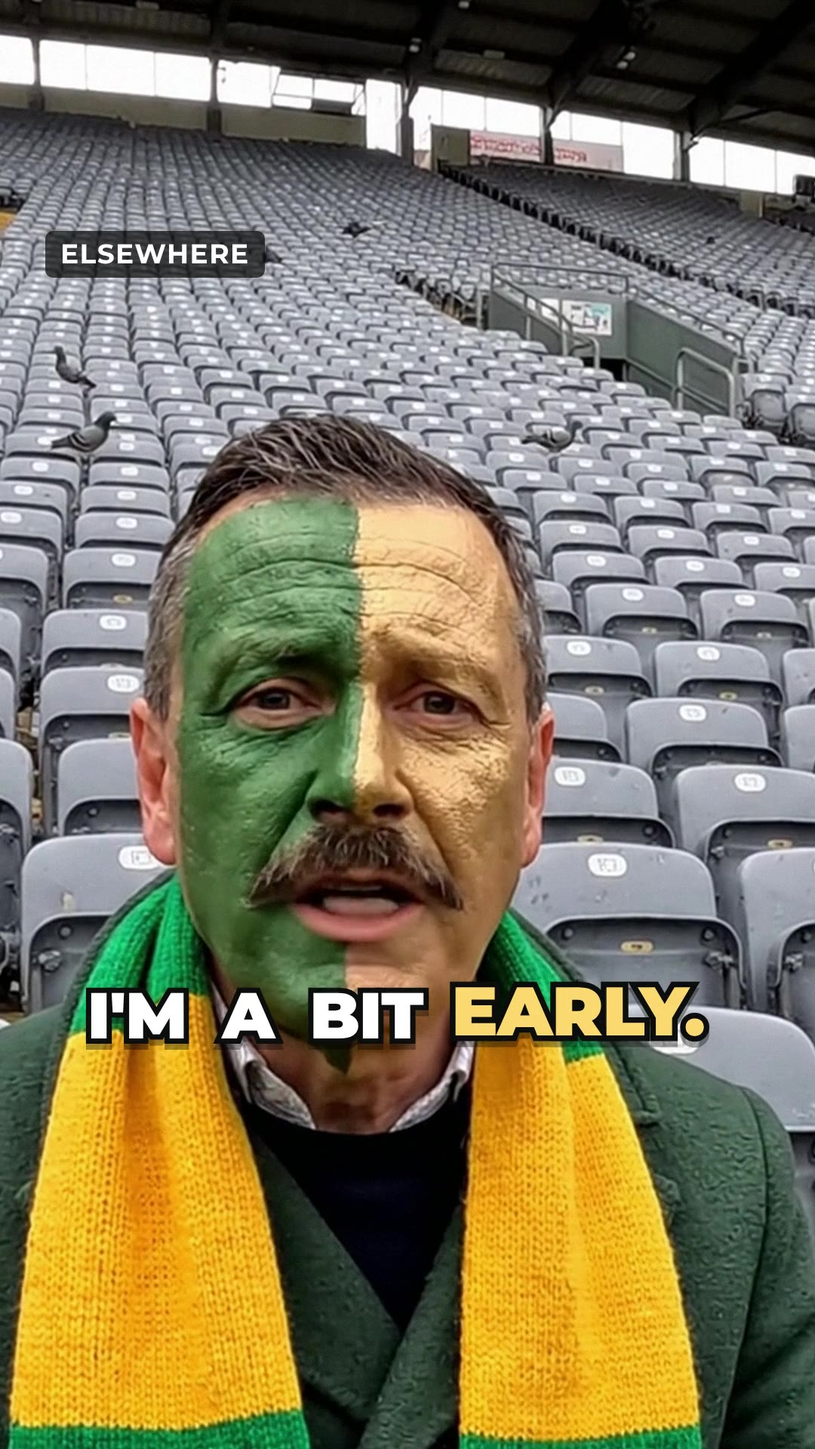
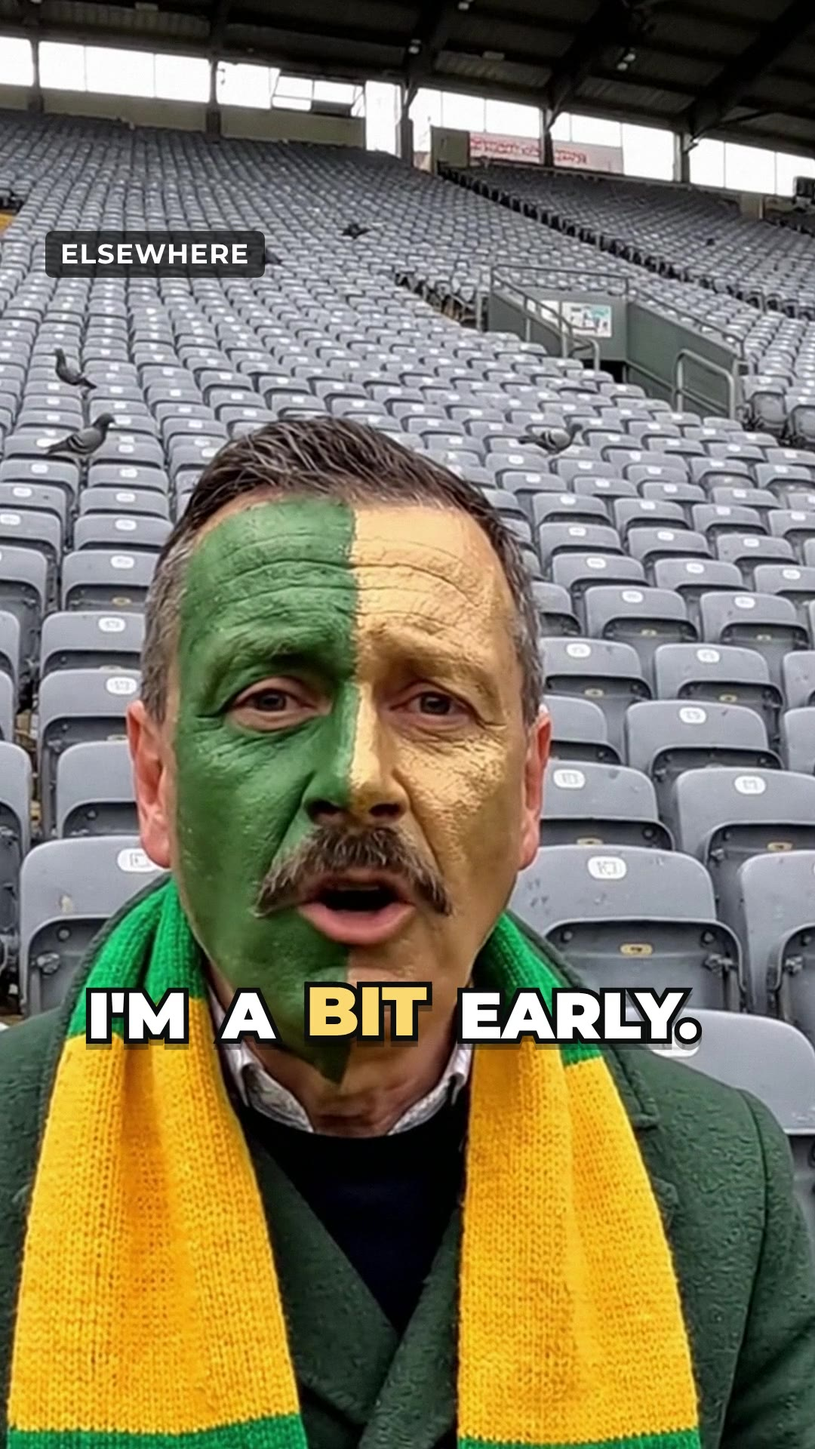
Gallery and posters for the final episodes
Claude-Session: https://claude.ai/code/session_016pKdYbt9Bqy4vSUprYB1BZ

diff --git a/venuvoy-ads/index.html b/venuvoy-ads/index.html
@@ -109,12 +109,12 @@ button.cp:focus-visible { outline: 3px solid var(--accent); outline-offset: 2px;
 <h1>ערכת הקמפיין של <span class="g ltr">Venuvoy</span></h1><p class="lede">חדש: <span class="ltr">To Be Confirmed</span>, סדרה קומית באנגלית לבניית קהילה (6 פרקים), בראש העמוד. אחריה: קמפיין בינלאומי של ארבעה סרטונים באנגלית ובעברית, סרטון ראשי בעברית ובאנגלית (35 שניות, וגרסה של 15 שניות לכל אחד), ושש מודעות וידאו בעברית (9:16 ו־4:5, 8 שניות). לכל הסרטונים מוזיקה מקורית. כל מודעה קיימת גם כתמונה בארבעה גדלים. כל משחק, מחיר ושעה לקוחים מהמוצר עצמו: תוכניות שהמנוע ייצר, שורות מהקטלוג וספר המחירים. מתחת לכל מודעה יש את הטקסטים ל־Meta, מוכנים להעתקה.</p>
 <ul class="specs"><li>פיד <span>1080×1350</span></li><li>סטורי / ריל <span>1080×1920</span></li><li>ריבוע <span>1080×1080</span></li><li>רוחבי <span>1200×628</span></li><li>וידאו 9:16 <span>1080×1920</span></li><li>וידאו 4:5 <span>1080×1350</span></li></ul>
 <section class="entry" aria-labelledby="h-series"><div class="entry-h"><span class="no">●</span><h2 id="h-series">הסדרה · <span class="ltr">To Be Confirmed</span></h2><span class="onimg">סדרה קומית לבניית קהילה · באנגלית</span></div><p class="angle">זו לא פרסומת. סדרה דוקומנטרית־קומית על קבוצת צ׳אט של אוהדים שמתכננים נסיעה אחת למשחק בחו״ל, בהמשך ל״דני יצא מהקבוצה״ (שהופך ל״עונה שעברה״). אין בה מסך של האפליקציה, מחיר, כפתור או קישור. המותג רק חותם בסוף כל פרק: ״<bdi dir="ltr">Next episode: Thursday. Confirmed.</bdi>״ המטרה: שאוהדים שנוסעים למשחקים יעקבו, ישלחו לקבוצה שלהם ויחכו לפרק הבא.</p><dl class="copy"><div><dt>ביו לפרופיל<small><span class="ltr">Bio</span></small></dt><dd id="series-bio-0" dir="ltr" lang="en">A study of people trying to get to a match. Fiction. New episode every Thursday.</dd><span class="act"><button type="button" class="cp" data-for="series-bio-0">העתקה</button></span></div></dl><p class="sub-h">תוכנית הפרסום</p><ol class="scenes"><li>לפני היום הראשון: שם הפרופיל <bdi dir="ltr">To Be Confirmed.</bdi> בביו: המשפט שלמעלה, ואחריו משפט אחד פשוט שאומר מה זה <bdi dir="ltr">Venuvoy</bdi> והקישור. זה המקום היחיד שבו המוצר מופיע.</li><li>בכל פוסט ובכל פלטפורמה להדליק את התווית שמציינת שהתוכן נוצר בבינה מלאכותית.</li><li>שעה קבועה: 12:00 בשעון בריטניה (14:00 בישראל בחורף). בשעה הזאת זה יום חמישי בכל העולם, מלוס אנג׳לס ועד סידני, והשורה ״<bdi dir="ltr">Thursday. Confirmed.</bdi>״ נכונה לכולם.</li><li>יום 1: פרקים 1, 2 ו־3 אחד אחרי השני באותה שעה, ושלושתם נעוצים בראש הפרופיל. כך מי שנכנס רואה מיד סדרה ממוספרת.</li><li>להעלות לכל פלטפורמה את הקובץ המקורי (9:16), ולא קובץ שהורד מפלטפורמה אחרת עם סימן מים. עד שלושה תגים כלליים: <bdi dir="ltr">away days, groundhopping, football travel.</bdi> בלי שם של מועדון, ליגה או תחרות.</li><li>תגובות: עונים בקול של הקריין (״<bdi dir="ltr">Noted.</bdi>״) או לא עונים. לא מבקשים לייקים, תיוגים או מעקב. על המוצר עונים רק אם מישהו שואל מה זה <bdi dir="ltr">Venuvoy</bdi>, במשפט אחד.</li><li>ההבטחה ״<bdi dir="ltr">Next episode: Thursday. Confirmed.</bdi>״ מחייבת פרק חדש בכל יום חמישי. הפרק של יום 15 (החתונה של הבת של ויק) עוד לא צולם: מחליטים עליו ביום 9, לפי הנתונים של השבוע הראשון.</li><li>מה למדוד אחרי שבוע: כמה שלחו את הסרטון ביחס לחשיפה, כמה דילגו בשלוש השניות הראשונות, כמה צפו עד הסוף, וכמה התחילו לעקוב.</li></ol></section>
-<section class="entry" aria-labelledby="h-tbc-e1"><div class="entry-h"><span class="no">1</span><h2 id="h-tbc-e1"><span class="ltr">Episode 1: Should Be Fine</span></h2><span class="onimg">יום 1 · חמישי · 36 שניות</span></div><div class="reel"><div class="rv"><figure><video src="ads/16-tbc/venuvoy-tbc-e1-en_9x16_1080x1920.mp4" poster="ads/16-tbc/poster-tbc-e1.jpg" controls playsinline loop preload="metadata"></video><figcaption>English · <span class="ltr">9:16</span></figcaption></figure></div><div><dl class="copy"><div><dt>כיתוב לפוסט<small><span class="ltr">Caption</span></small></dt><dd id="tbc-e1-0" dir="ltr" lang="en">Episode 1. The dates are out. There is a spreadsheet.</dd><span class="act"><button type="button" class="cp" data-for="tbc-e1-0">העתקה</button></span></div><div><dt>תגובה נעוצה<small><span class="ltr">Pinned comment</span></small></dt><dd id="tbc-e1-1" dir="ltr" lang="en">The poll is still open. Options other than yes and no are being recorded.</dd><span class="act"><button type="button" class="cp" data-for="tbc-e1-1">העתקה</button></span></div></dl><p class="basis">קיים גם ב־4:5 (<span class="ltr">1080×1350</span>) לפיד, באותה תיקייה. בלי מוצר, בלי מחיר ובלי כפתור: רק החתימה בסוף.</p></div></div></section>
-<section class="entry" aria-labelledby="h-tbc-e2"><div class="entry-h"><span class="no">2</span><h2 id="h-tbc-e2"><span class="ltr">Episode 2: So You Guess</span></h2><span class="onimg">יום 1 · חמישי, מיד אחרי פרק 1 · 30 שניות</span></div><div class="reel"><div class="rv"><figure><video src="ads/16-tbc/venuvoy-tbc-e2-en_9x16_1080x1920.mp4" poster="ads/16-tbc/poster-tbc-e2.jpg" controls playsinline loop preload="metadata"></video><figcaption>English · <span class="ltr">9:16</span></figcaption></figure></div><div><dl class="copy"><div><dt>כיתוב לפוסט<small><span class="ltr">Caption</span></small></dt><dd id="tbc-e2-0" dir="ltr" lang="en">Episode 2. Everything gets booked.</dd><span class="act"><button type="button" class="cp" data-for="tbc-e2-0">העתקה</button></span></div></dl><p class="basis">קיים גם ב־4:5 (<span class="ltr">1080×1350</span>) לפיד, באותה תיקייה. בלי מוצר, בלי מחיר ובלי כפתור: רק החתימה בסוף.</p></div></div></section>
-<section class="entry" aria-labelledby="h-tbc-e3"><div class="entry-h"><span class="no">3</span><h2 id="h-tbc-e3"><span class="ltr">Episode 3: A History of Buying Tickets</span></h2><span class="onimg">יום 1 · חמישי, מיד אחרי פרק 2 · 31 שניות</span></div><div class="reel"><div class="rv"><figure><video src="ads/16-tbc/venuvoy-tbc-e3-en_9x16_1080x1920.mp4" poster="ads/16-tbc/poster-tbc-e3.jpg" controls playsinline loop preload="metadata"></video><figcaption>English · <span class="ltr">9:16</span></figcaption></figure></div><div><dl class="copy"><div><dt>כיתוב לפוסט<small><span class="ltr">Caption</span></small></dt><dd id="tbc-e3-0" dir="ltr" lang="en">Episode 3. One ticket short.</dd><span class="act"><button type="button" class="cp" data-for="tbc-e3-0">העתקה</button></span></div></dl><p class="basis">קיים גם ב־4:5 (<span class="ltr">1080×1350</span>) לפיד, באותה תיקייה. בלי מוצר, בלי מחיר ובלי כפתור: רק החתימה בסוף.</p></div></div></section>
-<section class="entry" aria-labelledby="h-tbc-e5"><div class="entry-h"><span class="no">4</span><h2 id="h-tbc-e5"><span class="ltr">Elsewhere: A Bit Early</span></h2><span class="onimg">יום 6 · שלישי · 24 שניות</span></div><div class="reel"><div class="rv"><figure><video src="ads/16-tbc/venuvoy-tbc-e5-en_9x16_1080x1920.mp4" poster="ads/16-tbc/poster-tbc-e5.jpg" controls playsinline loop preload="metadata"></video><figcaption>English · <span class="ltr">9:16</span></figcaption></figure></div><div><dl class="copy"><div><dt>כיתוב לפוסט<small><span class="ltr">Caption</span></small></dt><dd id="tbc-e5-0" dir="ltr" lang="en">Elsewhere. A man has reached his seat.</dd><span class="act"><button type="button" class="cp" data-for="tbc-e5-0">העתקה</button></span></div></dl><p class="basis">קיים גם ב־4:5 (<span class="ltr">1080×1350</span>) לפיד, באותה תיקייה. בלי מוצר, בלי מחיר ובלי כפתור: רק החתימה בסוף.</p></div></div></section>
+<section class="entry" aria-labelledby="h-tbc-e1"><div class="entry-h"><span class="no">1</span><h2 id="h-tbc-e1"><span class="ltr">Episode 1: Should Be Fine</span></h2><span class="onimg">יום 1 · חמישי · 37 שניות</span></div><div class="reel"><div class="rv"><figure><video src="ads/16-tbc/venuvoy-tbc-e1-en_9x16_1080x1920.mp4" poster="ads/16-tbc/poster-tbc-e1.jpg" controls playsinline loop preload="metadata"></video><figcaption>English · <span class="ltr">9:16</span></figcaption></figure></div><div><dl class="copy"><div><dt>כיתוב לפוסט<small><span class="ltr">Caption</span></small></dt><dd id="tbc-e1-0" dir="ltr" lang="en">Episode 1. The dates are out. There is a spreadsheet.</dd><span class="act"><button type="button" class="cp" data-for="tbc-e1-0">העתקה</button></span></div><div><dt>תגובה נעוצה<small><span class="ltr">Pinned comment</span></small></dt><dd id="tbc-e1-1" dir="ltr" lang="en">The poll is still open. Options other than yes and no are being recorded.</dd><span class="act"><button type="button" class="cp" data-for="tbc-e1-1">העתקה</button></span></div></dl><p class="basis">קיים גם ב־4:5 (<span class="ltr">1080×1350</span>) לפיד, באותה תיקייה. בלי מוצר, בלי מחיר ובלי כפתור: רק החתימה בסוף.</p></div></div></section>
+<section class="entry" aria-labelledby="h-tbc-e2"><div class="entry-h"><span class="no">2</span><h2 id="h-tbc-e2"><span class="ltr">Episode 2: So You Guess</span></h2><span class="onimg">יום 1 · חמישי, מיד אחרי פרק 1 · 32 שניות</span></div><div class="reel"><div class="rv"><figure><video src="ads/16-tbc/venuvoy-tbc-e2-en_9x16_1080x1920.mp4" poster="ads/16-tbc/poster-tbc-e2.jpg" controls playsinline loop preload="metadata"></video><figcaption>English · <span class="ltr">9:16</span></figcaption></figure></div><div><dl class="copy"><div><dt>כיתוב לפוסט<small><span class="ltr">Caption</span></small></dt><dd id="tbc-e2-0" dir="ltr" lang="en">Episode 2. Everything gets booked.</dd><span class="act"><button type="button" class="cp" data-for="tbc-e2-0">העתקה</button></span></div></dl><p class="basis">קיים גם ב־4:5 (<span class="ltr">1080×1350</span>) לפיד, באותה תיקייה. בלי מוצר, בלי מחיר ובלי כפתור: רק החתימה בסוף.</p></div></div></section>
+<section class="entry" aria-labelledby="h-tbc-e3"><div class="entry-h"><span class="no">3</span><h2 id="h-tbc-e3"><span class="ltr">Episode 3: A History of Buying Tickets</span></h2><span class="onimg">יום 1 · חמישי, מיד אחרי פרק 2 · 32 שניות</span></div><div class="reel"><div class="rv"><figure><video src="ads/16-tbc/venuvoy-tbc-e3-en_9x16_1080x1920.mp4" poster="ads/16-tbc/poster-tbc-e3.jpg" controls playsinline loop preload="metadata"></video><figcaption>English · <span class="ltr">9:16</span></figcaption></figure></div><div><dl class="copy"><div><dt>כיתוב לפוסט<small><span class="ltr">Caption</span></small></dt><dd id="tbc-e3-0" dir="ltr" lang="en">Episode 3. One ticket short.</dd><span class="act"><button type="button" class="cp" data-for="tbc-e3-0">העתקה</button></span></div></dl><p class="basis">קיים גם ב־4:5 (<span class="ltr">1080×1350</span>) לפיד, באותה תיקייה. בלי מוצר, בלי מחיר ובלי כפתור: רק החתימה בסוף.</p></div></div></section>
+<section class="entry" aria-labelledby="h-tbc-e5"><div class="entry-h"><span class="no">4</span><h2 id="h-tbc-e5"><span class="ltr">Elsewhere: A Bit Early</span></h2><span class="onimg">יום 6 · שלישי · 25 שניות</span></div><div class="reel"><div class="rv"><figure><video src="ads/16-tbc/venuvoy-tbc-e5-en_9x16_1080x1920.mp4" poster="ads/16-tbc/poster-tbc-e5.jpg" controls playsinline loop preload="metadata"></video><figcaption>English · <span class="ltr">9:16</span></figcaption></figure></div><div><dl class="copy"><div><dt>כיתוב לפוסט<small><span class="ltr">Caption</span></small></dt><dd id="tbc-e5-0" dir="ltr" lang="en">Elsewhere. A man has reached his seat.</dd><span class="act"><button type="button" class="cp" data-for="tbc-e5-0">העתקה</button></span></div></dl><p class="basis">קיים גם ב־4:5 (<span class="ltr">1080×1350</span>) לפיד, באותה תיקייה. בלי מוצר, בלי מחיר ובלי כפתור: רק החתימה בסוף.</p></div></div></section>
 <section class="entry" aria-labelledby="h-tbc-e4"><div class="entry-h"><span class="no">5</span><h2 id="h-tbc-e4"><span class="ltr">Episode 4: It&#x27;s Been Moved</span></h2><span class="onimg">יום 8 · חמישי · 33 שניות</span></div><div class="reel"><div class="rv"><figure><video src="ads/16-tbc/venuvoy-tbc-e4-en_9x16_1080x1920.mp4" poster="ads/16-tbc/poster-tbc-e4.jpg" controls playsinline loop preload="metadata"></video><figcaption>English · <span class="ltr">9:16</span></figcaption></figure></div><div><dl class="copy"><div><dt>כיתוב לפוסט<small><span class="ltr">Caption</span></small></dt><dd id="tbc-e4-0" dir="ltr" lang="en">Episode 4. The match has moved to Monday.</dd><span class="act"><button type="button" class="cp" data-for="tbc-e4-0">העתקה</button></span></div><div><dt>תגובה נעוצה<small><span class="ltr">Pinned comment</span></small></dt><dd id="tbc-e4-1" dir="ltr" lang="en">The study keeps a record of matches that moved after the flights were booked. The record needs three things: the day you booked for, the day it moved to, the reason given. No club names.</dd><span class="act"><button type="button" class="cp" data-for="tbc-e4-1">העתקה</button></span></div></dl><p class="basis">קיים גם ב־4:5 (<span class="ltr">1080×1350</span>) לפיד, באותה תיקייה. בלי מוצר, בלי מחיר ובלי כפתור: רק החתימה בסוף.</p></div></div></section>
-<section class="entry" aria-labelledby="h-tbc-e6"><div class="entry-h"><span class="no">6</span><h2 id="h-tbc-e6"><span class="ltr">In the Chat: It&#x27;s Pinned</span></h2><span class="onimg">יום 13 · שלישי · 21 שניות</span></div><div class="reel"><div class="rv"><figure><video src="ads/16-tbc/venuvoy-tbc-e6-en_9x16_1080x1920.mp4" poster="ads/16-tbc/poster-tbc-e6.jpg" controls playsinline loop preload="metadata"></video><figcaption>English · <span class="ltr">9:16</span></figcaption></figure></div><div><dl class="copy"><div><dt>כיתוב לפוסט<small><span class="ltr">Caption</span></small></dt><dd id="tbc-e6-0" dir="ltr" lang="en">In the chat. Somebody has asked what time kick-off is.</dd><span class="act"><button type="button" class="cp" data-for="tbc-e6-0">העתקה</button></span></div></dl><p class="basis">קיים גם ב־4:5 (<span class="ltr">1080×1350</span>) לפיד, באותה תיקייה. בלי מוצר, בלי מחיר ובלי כפתור: רק החתימה בסוף.</p></div></div></section>
+<section class="entry" aria-labelledby="h-tbc-e6"><div class="entry-h"><span class="no">6</span><h2 id="h-tbc-e6"><span class="ltr">In the Chat: It&#x27;s Pinned</span></h2><span class="onimg">יום 13 · שלישי · 22 שניות</span></div><div class="reel"><div class="rv"><figure><video src="ads/16-tbc/venuvoy-tbc-e6-en_9x16_1080x1920.mp4" poster="ads/16-tbc/poster-tbc-e6.jpg" controls playsinline loop preload="metadata"></video><figcaption>English · <span class="ltr">9:16</span></figcaption></figure></div><div><dl class="copy"><div><dt>כיתוב לפוסט<small><span class="ltr">Caption</span></small></dt><dd id="tbc-e6-0" dir="ltr" lang="en">In the chat. Somebody has asked what time kick-off is.</dd><span class="act"><button type="button" class="cp" data-for="tbc-e6-0">העתקה</button></span></div></dl><p class="basis">קיים גם ב־4:5 (<span class="ltr">1080×1350</span>) לפיד, באותה תיקייה. בלי מוצר, בלי מחיר ובלי כפתור: רק החתימה בסוף.</p></div></div></section>
 <section class="entry" aria-labelledby="h-camp"><div class="entry-h"><span class="no">★</span><h2 id="h-camp">קמפיין בינלאומי · <span class="ltr">The World Is Your Stadium</span></h2><span class="onimg">העולם הוא האצטדיון שלכם</span></div><p class="angle">חמישה סרטונים, כל אחד באנגלית ובעברית, ב־9:16 וב־4:5: סרט קומדיה עם דמויות שצולם בבינה מלאכותית, סרט ראשי עם סטדיון וגלובוס בתלת־ממד, קומדיה, מונטאז׳ ענפים ובאמפר של 6 שניות. לכל אחד מוזיקה ואפקטים מקוריים, וכולם נגמרים באותה חתימה צלילית.</p></section>
 <section class="entry" aria-labelledby="h-danny"><div class="entry-h"><span class="no">15</span><h2 id="h-danny">סרט עם קריין · דני יצא מהקבוצה (Danny Left the Chat)</h2><span class="onimg">40 שניות</span></div><p class="angle">קומדיה דוקומנטרית עם קריין, שצולמה כולה בבינה מלאכותית ב־Higgsfield. צוות תיעודי טס עם האנגלים ״ללמוד״ איך נוסעים למשחק חוץ, ומגלה איך זה באמת נראה: סקר התאריכים שבו ניצח ״אולי״, דני שאמר ״עליי״ ויצא מהקבוצה, ומישהו ש״יש לו מישהו״ בחניון. ואז מתברר איפה דני: הוא טס עם סבתא שלו, שכתבה משפט אחד וקיבלה תאריך סגור וכרטיס רשמי, והטלפון שלה גם אמר לה שהמשחק הוזז. הסוף עונה לפתיחה: ״למדנו הרבה. הכול מסבתא של דני.״ בגרסה האנגלית הקריין באנגלית; בגרסה העברית הקריין, הכתוביות, הגרפיקה, ההתראה, מסך האפליקציה וכרטיס הסיום בעברית, והדמויות מדברות אנגלית.</p><div class="reel"><div class="rv"><figure><video src="ads/15-danny/venuvoy-danny-en_9x16_1080x1920.mp4" poster="ads/15-danny/poster-en.jpg" controls playsinline loop preload="metadata"></video><figcaption>English · <span class="ltr">9:16</span></figcaption></figure><figure><video src="ads/15-danny/venuvoy-danny-he_9x16_1080x1920.mp4" poster="ads/15-danny/poster-he.jpg" controls playsinline loop preload="metadata"></video><figcaption>עברית · <span class="ltr">9:16</span></figcaption></figure></div><div><p class="sub-h" style="margin-top:0">English · Meta</p><dl class="copy"><div><dt>טקסט ראשי<small><span class="ltr">137/125</span></small></dt><dd id="danny-en-0" dir="auto">54 days of group chat. One sentence from Danny&#x27;s grandmother. Tell Venuvoy where and when, and get the whole football trip. Free to plan.</dd><span class="act"><button type="button" class="cp" data-for="danny-en-0">העתקה</button></span></div><div><dt>כותרת<small><span class="ltr">25/40</span></small></dt><dd id="danny-en-1" dir="auto">One sentence. Whole trip.</dd><span class="act"><button type="button" class="cp" data-for="danny-en-1">העתקה</button></span></div><div><dt>תיאור<small><span class="ltr">11/30</span></small></dt><dd id="danny-en-2" dir="auto">venuvoy.app</dd><span class="act"><button type="button" class="cp" data-for="danny-en-2">העתקה</button></span></div><div><dt>כפתור<small><span class="ltr">CTA</span></small></dt><dd id="danny-en-3" dir="auto">Learn More</dd><span class="act"><button type="button" class="cp" data-for="danny-en-3">העתקה</button></span></div></dl><p class="sub-h">עברית · Meta</p><dl class="copy"><div><dt>טקסט ראשי<small><span class="ltr">119/125</span></small></dt><dd id="danny-he-0" dir="auto">54 ימים של קבוצת וואטסאפ. משפט אחד של סבתא של דני. כותבים ל־Venuvoy לאן ומתי, ומקבלים את כל טיול הכדורגל. התכנון בחינם.</dd><span class="act"><button type="button" class="cp" data-for="danny-he-0">העתקה</button></span></div><div><dt>כותרת<small><span class="ltr">19/40</span></small></dt><dd id="danny-he-1" dir="auto">משפט אחד. טיול שלם.</dd><span class="act"><button type="button" class="cp" data-for="danny-he-1">העתקה</button></span></div><div><dt>תיאור<small><span class="ltr">11/30</span></small></dt><dd id="danny-he-2" dir="auto">venuvoy.app</dd><span class="act"><button type="button" class="cp" data-for="danny-he-2">העתקה</button></span></div><div><dt>כפתור<small><span class="ltr">CTA</span></small></dt><dd id="danny-he-3" dir="auto">מידע נוסף (Learn More)</dd><span class="act"><button type="button" class="cp" data-for="danny-he-3">העתקה</button></span></div></dl><p class="basis">כל גרסה קיימת גם ב־4:5 (<span class="ltr">1080×1350</span>) לפיד, באותה תיקייה.</p></div></div></section>
 <section class="entry" aria-labelledby="h-anthem"><div class="entry-h"><span class="no">10</span><h2 id="h-anthem">הסרט הראשי · The World Is Your Stadium</h2><span class="onimg">28 שניות</span></div><p class="angle">סטדיון לילי בתלת־ממד עם קהל, זיקוקים ומוזיקה מקורית בסגנון שירת יציע. גלובוס עם קווי טיסה, הדגמה של משפט אחד שהופך לתוכנית, ארבע סיבות בקצב של שנייה, ומחיר הוגן.</p><div class="reel"><div class="rv"><figure><video src="ads/10-anthem/venuvoy-anthem-en_9x16_1080x1920.mp4" poster="ads/10-anthem/poster-en.jpg" controls playsinline loop preload="metadata"></video><figcaption>English · <span class="ltr">9:16</span></figcaption></figure><figure><video src="ads/10-anthem/venuvoy-anthem-he_9x16_1080x1920.mp4" poster="ads/10-anthem/poster-he.jpg" controls playsinline loop preload="metadata"></video><figcaption>עברית · <span class="ltr">9:16</span></figcaption></figure></div><div><p class="sub-h" style="margin-top:0">English · Meta</p><dl class="copy"><div><dt>טקסט ראשי<small><span class="ltr">123/125</span></small></dt><dd id="anthem-en-0" dir="auto">Your team. Their stadium. Tell Venuvoy your trip in one sentence and get real plans around real fixtures. Planning is free.</dd><span class="act"><button type="button" class="cp" data-for="anthem-en-0">העתקה</button></span></div><div><dt>כותרת<small><span class="ltr">25/40</span></small></dt><dd id="anthem-en-1" dir="auto">The world is your stadium</dd><span class="act"><button type="button" class="cp" data-for="anthem-en-1">העתקה</button></span></div><div><dt>תיאור<small><span class="ltr">11/30</span></small></dt><dd id="anthem-en-2" dir="auto">venuvoy.app</dd><span class="act"><button type="button" class="cp" data-for="anthem-en-2">העתקה</button></span></div><div><dt>כפתור<small><span class="ltr">CTA</span></small></dt><dd id="anthem-en-3" dir="auto">Learn More</dd><span class="act"><button type="button" class="cp" data-for="anthem-en-3">העתקה</button></span></div></dl><p class="sub-h">עברית · Meta</p><dl class="copy"><div><dt>טקסט ראשי<small><span class="ltr">110/125</span></small></dt><dd id="anthem-he-0" dir="auto">הקבוצה שלכם. האצטדיון שלהם. משפט אחד, ו־Venuvoy בונה טיול סביב משחקים אמיתיים, עם מקור לכל משחק. התכנון בחינם.</dd><span class="act"><button type="button" class="cp" data-for="anthem-he-0">העתקה</button></span></div><div><dt>כותרת<small><span class="ltr">23/40</span></small></dt><dd id="anthem-he-1" dir="auto">העולם הוא האצטדיון שלכם</dd><span class="act"><button type="button" class="cp" data-for="anthem-he-1">העתקה</button></span></div><div><dt>תיאור<small><span class="ltr">11/30</span></small></dt><dd id="anthem-he-2" dir="auto">venuvoy.app</dd><span class="act"><button type="button" class="cp" data-for="anthem-he-2">העתקה</button></span></div><div><dt>כפתור<small><span class="ltr">CTA</span></small></dt><dd id="anthem-he-3" dir="auto">מידע נוסף (Learn More)</dd><span class="act"><button type="button" class="cp" data-for="anthem-he-3">העתקה</button></span></div></dl><p class="basis">כל גרסה קיימת גם ב־4:5 (<span class="ltr">1080×1350</span>) לפיד, באותה תיקייה. לסרט הראשי יש גם גרסה של 15 שניות לקמפיינים ממומנים (<span class="ltr">-15s</span>), שנחתכה עם video-use.</p></div></div></section>
